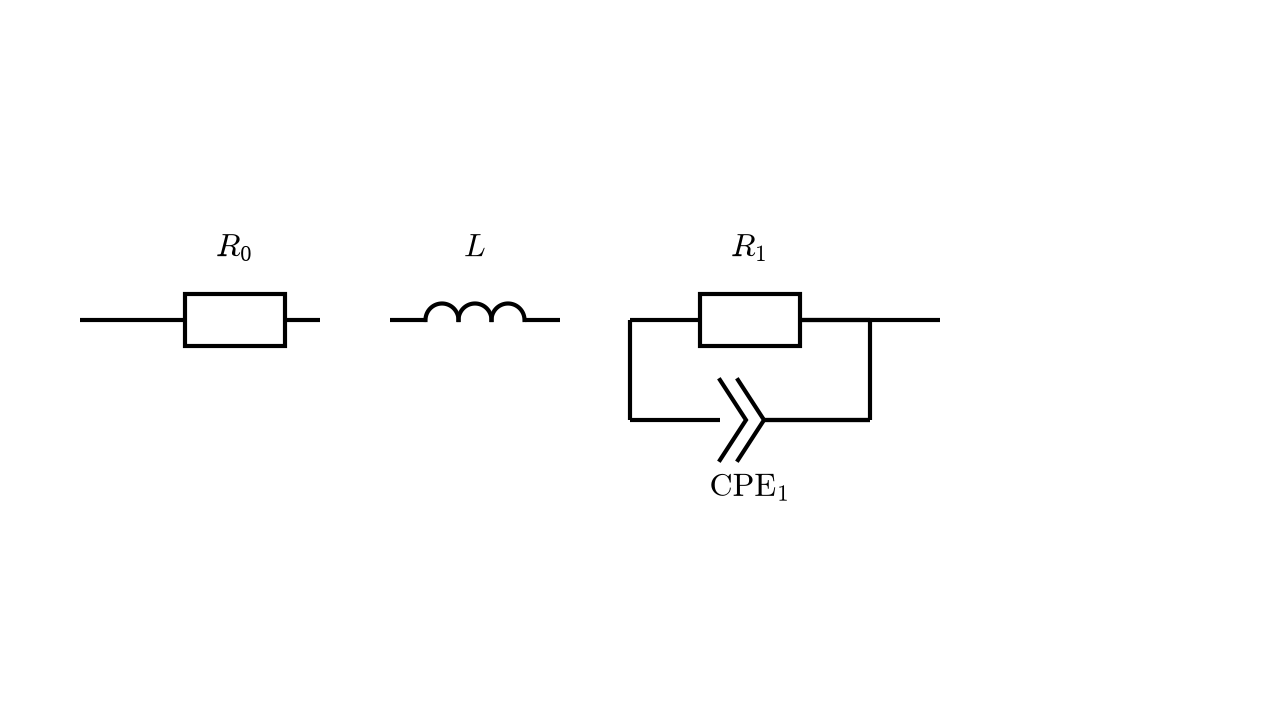
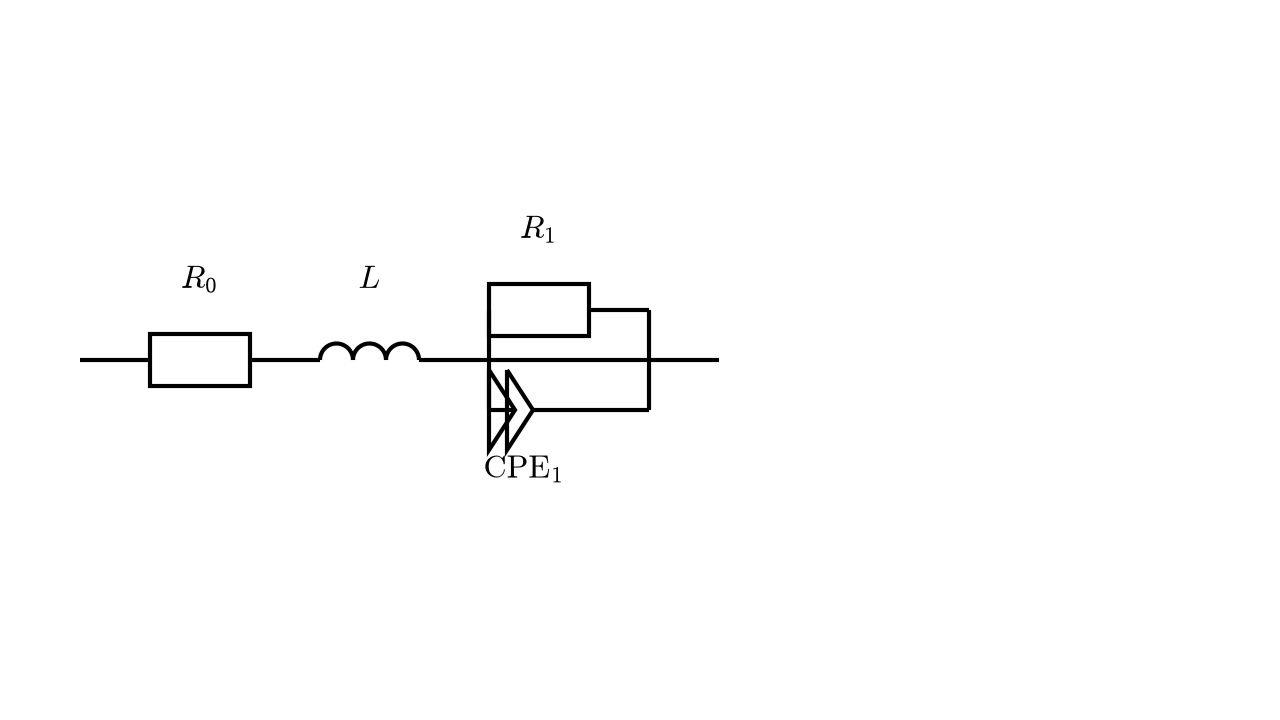
create_eec_diagram.py: unify layout on single horizontal trunk
- all series elements and parallel-group trunks share one horizontal line
  at canvas mid-height
- parallel group vertical connectors cross the trunk at the midpoint
  between branches
- CPE wires attach at the apex of the left/right chevron
- symbols: R rectangle, L three adjacent semicircles, C two vertical
  parallel plates, CPE two chevrons

diff --git a/Konference/create_eec_diagram.py b/Konference/create_eec_diagram.py
@@ -2,9 +2,16 @@
 """Create an equivalent electrical circuit (EEC) diagram as SVG and PNG.
 
 The drawing mimics the PowerPoint-drawn EEC.svg in this folder: 1280x720
-white canvas, black 3 px strokes, IEC rectangle resistors, semicircle-arc
-inductor, chevron-pair CPEs, parallel (R,CPE) groups as rectangular loops
-around the main wire, Cambria-Math-style labels.
+white canvas, black 3 px strokes, IEC rectangle resistors, three-semicircle
+inductor, chevron-pair CPEs, two-plate capacitors, parallel (R,CPE) groups
+as rectangular loops, Cambria-Math-style labels.
+
+Layout rules:
+  * every series element is connected on one shared horizontal trunk line;
+  * a parallel group's vertical connectors are centered on the trunk, so
+    the wires enter/leave the group at the midpoint between its branches;
+  * a CPE is wired to the apex (middle vertex) of its left chevron on the
+    incoming side and to the apex of the right chevron on the outgoing side.
 
 Usage:
     python create_eec_diagram.py "R0-L-(R1,CPE1)" [-o OUTPUT_PREFIX]
@@ -28,15 +35,18 @@ import re
 import sys
 
 W, H = 1280, 720
-MARGIN = 150
-GAP = 70
-LEAF_W = 170
-GROUP_W = 240
-BRANCH_DY = 100
+MARGIN = 150.0
+GAP = 70.0
+INTRAGAP = 40.0
+GROUP_PAD = 30.0
+BRANCH_DY = 100.0
+Y0 = H / 2
 STROKE = 3.0
 FONT = 32.0
 FONT_SUB = 23.36
-MATH_LETTER = {"R": "\U0001d445", "L": "\U0001d43f", "C": "\U0001d436", "CPE": "CPE", "Q": "CPE"}
+LEAF_W = {"R": 100.0, "L": 99.0, "C": 28.0, "CPE": 70.0}
+LEFT_PAD = {"R": 50.0, "L": 49.5, "C": 14.0, "CPE": 26.0}
+MATH_LETTER = {"R": "\U0001d445", "L": "\U0001d43f", "C": "\U0001d436", "CPE": "CPE"}
 
 
 def tokenize(model: str) -> list[str]:
@@ -55,6 +65,8 @@ def parse(toks: list[str], pos: int = 0):
             pos += 1
         elif t == ")":
             break
+        elif t == ",":
+            break
         elif t == "(":
             pos += 1
             branches = []
@@ -69,8 +81,6 @@ def parse(toks: list[str], pos: int = 0):
                 else:
                     raise ValueError(f"Expected ',' or ')' at token {pos}")
             series.append(("group", branches))
-        elif t == ",":
-            break
         else:
             m = re.fullmatch(r"([A-Za-z]+)(\d*)", t)
             name = m.group(1).upper()
@@ -83,38 +93,42 @@ def parse(toks: list[str], pos: int = 0):
     return series, pos
 
 
-def item_width(item) -> float:
+def branch_width(branch, s: float) -> float:
+    return sum(LEAF_W[k] * s for _, k, _ in branch) + INTRAGAP * s * max(0, len(branch) - 1)
+
+
+def item_width(item, s: float) -> float:
     if item[0] == "leaf":
-        return LEAF_W
-    return max(GROUP_W, max(len(b) for b in item[1]) * LEAF_W)
+        return LEAF_W[item[1]] * s
+    return max(branch_width(b, s) for b in item[1]) + 2 * GROUP_PAD * s
 
 
 def layout(series) -> list[tuple]:
-    """Build a primitive list. Primitives:
-    ('line', x1, y1, x2, y2), ('rect', cx, cy, w, h), ('arc', cx, cy, r),
-    ('chev', cx, cy, w, h), ('cap', cx, cy, h, gap), ('text', x, y, main, sub, fs)
+    """Build a primitive list with absolute coordinates. Primitives:
+    ('line', x1, y1, x2, y2), ('poly', [(x, y), ...]), ('rect', cx, cy, w, h),
+    ('arc', cx, cy, r) upper semicircle, ('cap', cx, cy, h, gap) two vertical
+    plates, ('text', x, y, main, sub, fs), ('stroke', width)
     """
-    kmax = max([1] + [len(it[1]) for it in series if it[0] == "group"])
-    needed = sum(item_width(it) for it in series) + GAP * max(0, len(series) - 1)
+    needed = sum(item_width(it, 1.0) for it in series) + GAP * max(0, len(series) - 1)
     s = min(1.0, (W - 2 * MARGIN) / needed) if needed else 1.0
-    y0 = 370 - (kmax - 1) * 50
 
     prims: list[tuple] = []
 
-    def wire(x1, y1, x2, y2):
+    def wire(x1, x2, y):
         if x2 > x1:
-            prims.append(("line", x1, y1, x2, y2))
+            prims.append(("line", x1, y, x2, y))
 
-    def label(cx, cy, name, num, above=True):
-        main = MATH_LETTER[name]
-        prims.append(("text", cx, cy - 72 * s if above else cy + 68 * s, main, num, FONT * s))
+    def label(x, y, name, num, below=False):
+        ty = y + 68 * s if below else y - 72 * s
+        prims.append(("text", x, ty, name, num, FONT * s))
 
-    def draw_leaf(kind, cx, cy):
-        """Draw component centered on the wire; return (left edge, right edge) of the break."""
+    def draw_leaf(kind, left, cy):
+        """Draw a component whose symbol starts at x=left on wire level cy.
+        Return (left_conn, right_conn): x positions where wires attach."""
+        cx = left + LEFT_PAD[kind] * s
         if kind == "R":
-            w, h = 100 * s, 52 * s
-            prims.append(("rect", cx, cy, w, h))
-            return cx - w / 2, cx + w / 2
+            prims.append(("rect", cx, cy, 100 * s, 52 * s))
+            return cx - 50 * s, cx + 50 * s
         if kind == "L":
             r = 16.5 * s
             for i in range(3):
@@ -123,45 +137,47 @@ def layout(series) -> list[tuple]:
         if kind == "C":
             prims.append(("cap", cx, cy, 80 * s, 28 * s))
             return cx - 14 * s, cx + 14 * s
-        # CPE
-        prims.append(("chev", cx, cy, 26 * s, 80 * s))
-        return cx - 30 * s, cx + 14 * s
+        for i in range(2):
+            x0 = cx - 26 * s + 18 * s * i
+            prims.append(("poly", [(x0, cy - 40 * s), (x0 + 26 * s, cy), (x0, cy + 40 * s)]))
+        return cx, cx + 18 * s
 
-    def draw_branch(leaves, x0, x1, y, label_above):
-        n = len(leaves)
-        step = (x1 - x0) / n
-        prev_edge = x0
-        for i, (_, name, num) in enumerate(leaves):
-            cx = x0 + step * (i + 0.5)
-            le, ri = draw_leaf(name, cx, y)
-            wire(prev_edge, y, le, y)
-            wire(ri, y, x0 + step * (i + 1), y)
-            label(cx, y, name, num, above=label_above)
-            prev_edge = ri
-        wire(prev_edge, y, x1, y)
+    def draw_branch(branch, x0, x1, y, label_below):
+        cursor = x0
+        prev_conn = None
+        for _, kind, num in branch:
+            w = LEAF_W[kind] * s
+            l, r = draw_leaf(kind, cursor, y)
+            wire(x0 if prev_conn is None else prev_conn, l, y)
+            label(cursor + w / 2, y, kind, num, below=label_below)
+            prev_conn = r
+            cursor += w + INTRAGAP * s
+        wire(prev_conn, x1, y)
 
-    x = float(MARGIN)
+    x = MARGIN
+    prev_end = MARGIN - 70
     for item in series:
-        w = item_width(item) * s
+        w = item_width(item, s)
+        wire(prev_end, x, Y0)
         if item[0] == "leaf":
-            cx = x + w / 2
-            le, ri = draw_leaf(item[1], cx, y0)
-            wire(x, y0, le, y0)
-            wire(ri, y0, x + w, y0)
-            label(cx, y0, item[1], item[2], above=True)
+            kind, num = item[1], item[2]
+            l, r = draw_leaf(kind, x, Y0)
+            wire(x, l, Y0)
+            wire(r, x + w, Y0)
+            label(x + LEAF_W[kind] * s / 2, Y0, kind, num)
         else:
             branches = item[1]
+            k = len(branches)
+            ys = [Y0 + (i - (k - 1) / 2) * BRANCH_DY * s for i in range(k)]
             for i, branch in enumerate(branches):
-                draw_branch(branch, x, x + w, y0 + i * BRANCH_DY * s, label_above=(i == 0))
-            if len(branches) > 1:
-                prims.append(("line", x, y0, x, y0 + (len(branches) - 1) * BRANCH_DY * s))
-                prims.append(("line", x + w, y0, x + w, y0 + (len(branches) - 1) * BRANCH_DY * s))
-            else:
-                wire(x, y0, x + w, y0)
+                draw_branch(branch, x, x + w, ys[i], label_below=(k > 1 and i == k - 1))
+            if k > 1:
+                wire(x, x + w, Y0)
+                prims.append(("line", x, ys[0], x, ys[-1]))
+                prims.append(("line", x + w, ys[0], x + w, ys[-1]))
+        prev_end = x + w
         x += w + GAP * s
-
-    wire(MARGIN - 70, y0, MARGIN, y0)
-    wire(x - GAP * s, y0, x - GAP * s + 70, y0)
+    wire(prev_end, prev_end + 70, Y0)
     prims.append(("stroke", STROKE * s))
     return prims
 
@@ -178,6 +194,9 @@ def render_svg(prims) -> str:
         if p[0] == "line":
             _, x1, y1, x2, y2 = p
             parts.append(f'<path d="M{x1:.3f} {y1:.3f} {x2:.3f} {y2:.3f}" {style}/>')
+        elif p[0] == "poly":
+            pts = " ".join(f"{x:.3f} {y:.3f}" for x, y in p[1])
+            parts.append(f'<path d="M{pts.replace(" ", " L", 1)}" {style}/>')
         elif p[0] == "rect":
             _, cx, cy, w, h = p
             parts.append(
@@ -187,30 +206,25 @@ def render_svg(prims) -> str:
         elif p[0] == "arc":
             _, cx, cy, r = p
             parts.append(f'<path d="M{cx - r:.3f} {cy:.3f} A{r:.3f} {r:.3f} 0 0 1 {cx + r:.3f} {cy:.3f}" {style}/>')
-        elif p[0] == "chev":
-            _, cx, cy, w, h = p
-            for i in range(2):
-                dx = 18 * s_global * i
-                parts.append(
-                    f'<path d="M{cx - 30 * s_global + dx:.3f} {cy - h / 2:.3f} {cx - 4 * s_global + dx:.3f} {cy:.3f} '
-                    f'{cx - 30 * s_global + dx:.3f} {cy + h / 2:.3f}" {style}/>'
-                )
         elif p[0] == "cap":
             _, cx, cy, h, gap = p
             for dx in (-gap / 2, gap / 2):
                 parts.append(f'<path d="M{cx + dx:.3f} {cy - h / 2:.3f} {cx + dx:.3f} {cy + h / 2:.3f}" {style}/>')
         elif p[0] == "text":
             _, tx, ty, main, sub, fs = p
-            sub_html = f'<tspan font-size="{FONT_SUB * fs / FONT:.2f}" dy="{7 * fs / FONT:.2f}">{sub}</tspan>' if sub else ""
+            glyph = MATH_LETTER.get(main, main)
+            sub_html = (
+                f'<tspan font-size="{FONT_SUB * fs / FONT:.2f}" dy="{7 * fs / FONT:.2f}">{sub}</tspan>'
+                if sub
+                else ""
+            )
             parts.append(
                 f'<text font-family="Cambria Math,Cambria Math_MSFontService,sans-serif" font-weight="400" '
-                f'font-size="{fs:.2f}" text-anchor="middle" transform="translate({tx:.3f} {ty:.3f})">{main}{sub_html}</text>'
+                f'font-size="{fs:.2f}" text-anchor="middle" transform="translate({tx:.3f} {ty:.3f})">'
+                f"{glyph}{sub_html}</text>"
             )
     parts.append("</g></svg>")
     return "".join(parts)
-
-
-s_global = 1.0
 
 
 def render_png(prims, path: str):
@@ -218,6 +232,7 @@ def render_png(prims, path: str):
 
     matplotlib.use("Agg")
     import matplotlib.pyplot as plt
+    from matplotlib.patches import Rectangle
 
     plt.rcParams["mathtext.fontset"] = "cm"
     stroke = next((p[1] for p in prims if p[0] == "stroke"), STROKE)
@@ -226,39 +241,36 @@ def render_png(prims, path: str):
     ax.set_xlim(0, W)
     ax.set_ylim(H, 0)
     ax.axis("off")
+
+    def plot(xs, ys):
+        ax.plot(xs, ys, color="black", lw=stroke, solid_joinstyle="miter", solid_capstyle="butt")
+
     for p in prims:
         if p[0] == "line":
             _, x1, y1, x2, y2 = p
-            ax.plot([x1, x2], [y1, y2], color="black", lw=stroke, solid_joinstyle="miter", solid_capstyle="butt")
+            plot([x1, x2], [y1, y2])
+        elif p[0] == "poly":
+            xs = [pt[0] for pt in p[1]] + [p[1][0][0]]
+            ys = [pt[1] for pt in p[1]] + [p[1][0][1]]
+            plot(xs, ys)
         elif p[0] == "rect":
-            from matplotlib.patches import Rectangle
-
             _, cx, cy, w, h = p
             ax.add_patch(Rectangle((cx - w / 2, cy - h / 2), w, h, fill=False, ec="black", lw=stroke))
         elif p[0] == "arc":
             _, cx, cy, r = p
             t = [i * math.pi / 60 for i in range(61)]
-            ax.plot([cx + r * math.cos(v) for v in t], [cy - r * math.sin(v) for v in t],
-                    color="black", lw=stroke, solid_joinstyle="miter")
-        elif p[0] == "chev":
-            _, cx, cy, w, h = p
-            for i in range(2):
-                dx = w * 18 / 26 * i
-                ax.plot([cx - w * 30 / 26 + dx, cx - w * 4 / 26 + dx, cx - w * 30 / 26 + dx],
-                        [cy - h / 2, cy, cy + h / 2], color="black", lw=stroke, solid_joinstyle="miter")
+            plot([cx + r * math.cos(v) for v in t], [cy - r * math.sin(v) for v in t])
         elif p[0] == "cap":
             _, cx, cy, h, gap = p
             for dx in (-gap / 2, gap / 2):
-                ax.plot([cx + dx, cx + dx], [cy - h / 2, cy + h / 2], color="black", lw=stroke)
+                plot([cx + dx, cx + dx], [cy - h / 2, cy + h / 2])
         elif p[0] == "text":
             _, tx, ty, main, sub, fs = p
-            pt = fs * 72 / 100
             if main == "CPE":
                 txt = rf"$\mathrm{{CPE}}_{{{sub}}}$" if sub else r"$\mathrm{CPE}$"
             else:
-                letter = {"\U0001d445": "R", "\U0001d43f": "L", "\U0001d436": "C"}[main]
-                txt = rf"${letter}_{{{sub}}}$" if sub else rf"${letter}$"
-            ax.text(tx, ty, txt, fontsize=pt, ha="center", va="center", color="black")
+                txt = rf"${main}_{{{sub}}}$" if sub else rf"${main}$"
+            ax.text(tx, ty, txt, fontsize=fs * 72 / 100, ha="center", va="baseline", color="black")
     fig.savefig(path, dpi=100, facecolor="white")
     plt.close(fig)
 
@@ -269,12 +281,11 @@ def main() -> int:
     ap.add_argument("-o", "--out", default=None, help="output path prefix (default: EEC_<model> next to this script)")
     args = ap.parse_args()
 
-    global s_global
-    series, pos = parse(tokenize(args.model))
-    if pos != len(tokenize(args.model)):
-        raise ValueError("Trailing tokens in model string")
+    toks = tokenize(args.model)
+    series, pos = parse(toks)
+    if pos != len(toks) or not series:
+        raise ValueError(f"Cannot parse model string: {args.model!r}")
     prims = layout(series)
-    s_global = next((p[1] for p in prims if p[0] == "stroke"), STROKE) / STROKE
 
     prefix = args.out or os.path.join(
         os.path.dirname(os.path.abspath(__file__)), "EEC_" + re.sub(r"[^A-Za-z0-9]+", "_", args.model).strip("_")
